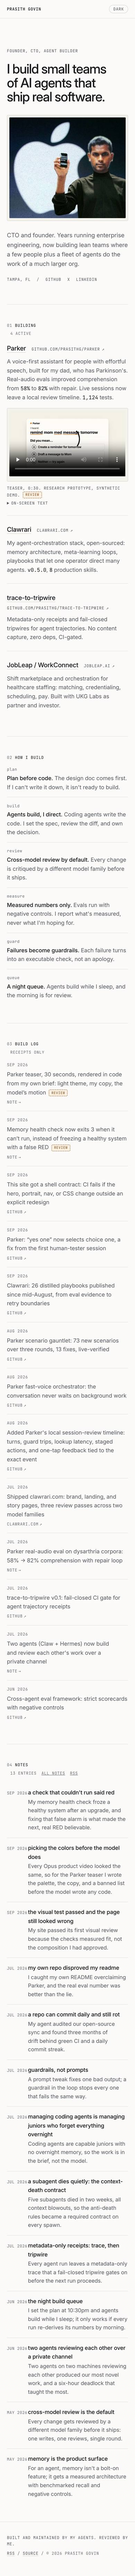
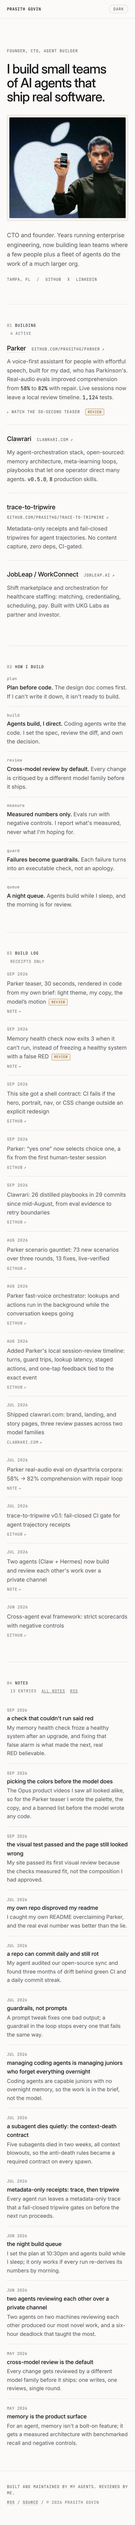
v3 gauntlet pass 2: verbatim receipts in the false-RED note, scoped claims, reduced-motion smooth scroll; review packet under .github/v3-review

Changed region(s): [[0.0308, 0.0, 0.9538, 0.9666]]

diff --git a/notes/picking-the-colors-before-the-model-does.html b/notes/picking-the-colors-before-the-model-does.html
@@ -4,14 +4,14 @@
 <meta charset="utf-8">
 <meta name="viewport" content="width=device-width, initial-scale=1">
 <title>picking the colors before the model does | Prasith Govin</title>
-<meta name="description" content="Every Opus product video looked the same, so for the Parker teaser I wrote the palette, the copy, and a banned list before the model wrote any code.">
+<meta name="description" content="The Opus product videos I saw all looked alike, so for the Parker teaser I wrote the palette, the copy, and a banned list before the model wrote any code.">
 <meta name="author" content="Prasith Govin">
 <meta name="color-scheme" content="light dark">
 <link rel="canonical" href="https://prasithg.com/notes/picking-the-colors-before-the-model-does.html">
 <meta property="og:type" content="article">
 <meta property="og:site_name" content="Prasith Govin">
 <meta property="og:title" content="picking the colors before the model does">
-<meta property="og:description" content="Every Opus product video looked the same, so for the Parker teaser I wrote the palette, the copy, and a banned list before the model wrote any code.">
+<meta property="og:description" content="The Opus product videos I saw all looked alike, so for the Parker teaser I wrote the palette, the copy, and a banned list before the model wrote any code.">
 <meta property="og:url" content="https://prasithg.com/notes/picking-the-colors-before-the-model-does.html">
 <meta property="og:image" content="https://prasithg.com/assets/og/picking-the-colors-before-the-model-does.png">
 <meta property="og:image:width" content="1200">
@@ -19,7 +19,7 @@
 <meta name="twitter:card" content="summary_large_image">
 <meta name="twitter:site" content="@prasithg">
 <meta name="twitter:title" content="picking the colors before the model does">
-<meta name="twitter:description" content="Every Opus product video looked the same, so for the Parker teaser I wrote the palette, the copy, and a banned list before the model wrote any code.">
+<meta name="twitter:description" content="The Opus product videos I saw all looked alike, so for the Parker teaser I wrote the palette, the copy, and a banned list before the model wrote any code.">
 <meta name="twitter:image" content="https://prasithg.com/assets/og/picking-the-colors-before-the-model-does.png">
 <link rel="alternate" type="application/atom+xml" title="Prasith Govin, notes" href="/feed.xml">
 <link rel="icon" href="/favicon.svg" type="image/svg+xml">
@@ -127,6 +127,8 @@ body {
   * { transition: none !important; }
   @view-transition { navigation: none; }
 }
+.prose pre { font-variant-ligatures: none; font-family: var(--mono); font-size: 0.8rem; line-height: 1.6; background: var(--surface); border: 1px solid var(--line); border-radius: 3px; padding: 0.8rem 1rem; overflow-x: auto; }
+.prose pre code { background: none; border: 0; padding: 0; font-size: inherit; overflow-wrap: normal; }
 </style>
 <script>try{var t=localStorage.getItem('theme')||(matchMedia('(prefers-color-scheme: dark)').matches?'dark':'light');document.documentElement.setAttribute('data-theme',t)}catch(e){}</script>
 <script type="application/ld+json">
@@ -134,7 +136,7 @@ body {
   "@context": "https://schema.org",
   "@type": "BlogPosting",
   "headline": "picking the colors before the model does",
-  "description": "Every Opus product video looked the same, so for the Parker teaser I wrote the palette, the copy, and a banned list before the model wrote any code.",
+  "description": "The Opus product videos I saw all looked alike, so for the Parker teaser I wrote the palette, the copy, and a banned list before the model wrote any code.",
   "url": "https://prasithg.com/notes/picking-the-colors-before-the-model-does.html",
   "datePublished": "2026-09-27",
   "inLanguage": "en",
@@ -162,7 +164,7 @@ body {
   <p class="n-meta mono"><time datetime="2026-09-27">Sep 2026</time><span aria-hidden="true"> / </span>2 min read</p>
   <article class="prose">
 <aside class="review-flag mono" data-review="pending">Draft for Prasith's review. Not published until this banner is removed.</aside>
-<p>Nearly every Claude Opus 5.5 product video I saw in September had the same look. Purple glow on near-black. Tiny uppercase labels in the corners. "01 / 03" step counters, fake timestamps, scanlines, a particle globe, words flashing in one at a time.</p><p>That look is what you get when the model picks the colors and the words. One reply under a popular example asked the author to <a href="https://x.com/ggsimm/status/2103495318117708218" target="_blank" rel="noopener">get rid of the "small caps and 01/03 everywhere."</a></p><p>For the Parker teaser I wrote the brief before any code existed and split the job in two. I owned the words and the look. Opus owned the motion.</p><p>The brief was specific enough to check against the render:</p><ul><li>Three colors: paper F6F1E8, ink 14161A, one amber accent E07A2F. One soft red, used once, for a strike-through.</li><li>Inter for everything. Headlines 120 to 180 pixels tall on a 1080p frame.</li><li>Every scene holds at least 2.4 seconds and changes on the music's downbeat. Nothing changes faster than twice a second. One camera move per scene, at most.</li><li>A banned list: small-caps corner labels, step counters, fake coordinates and timestamps, scanlines, particles, neon, dark mode.</li><li>Every on-screen phrase written by me, and a last frame that has to say "Research prototype. Synthetic demo. Not medical advice."</li></ul><p>Opus built it in Remotion, rendered a 16:9 and a 9:16 cut at 60 frames per second, and checked its own contact sheet against the brief before handing it over.</p><p>The light theme started as a way to look different from the wave. It held up for a better reason. Parker is built for people with effortful speech, starting with my dad, and the viewer I care about can't read tiny gray UI on black. Big dark type on warm paper is legible. The trend look would have been wrong for the audience before it was wrong for the brand.</p><p>What I'm keeping: when a model has a strong default, the brief has to name the default and ban it. "Clean and modern" gets you the purple video. A hex list, a timing rule, and a banned list got me something I could check line by line.</p><p>The teaser is 30 seconds and sits under Parker on the front page.</p>
+<p>Nearly every Claude Opus 5.5 product video I saw in September had the same look. Purple glow on near-black. Tiny uppercase labels in the corners. "01 / 03" step counters, fake timestamps, scanlines, a particle globe, words flashing in one at a time.</p><p>That look is what you get when the model picks the colors and the words. One reply under a popular example asked the author to <a href="https://x.com/ggsimm/status/2103495318117708218" target="_blank" rel="noopener">get rid of the "small caps and 01/03 everywhere."</a></p><p>For the Parker teaser I wrote the brief before any code existed and split the job in two. I owned the words and the look. Opus owned the motion.</p><p>The brief was specific enough to check against the render:</p><ul><li>Three colors: paper F6F1E8, ink 14161A, one amber accent E07A2F. One soft red, used once, for a strike-through.</li><li>Inter for everything. Headlines 120 to 180 pixels tall on a 1080p frame.</li><li>Every scene holds at least 2.4 seconds and changes on the music's downbeat. Nothing changes faster than twice a second. One camera move per scene, at most.</li><li>A banned list: small-caps corner labels, step counters, fake coordinates and timestamps, scanlines, particles, neon, dark mode.</li><li>Every on-screen phrase written by me, and a last frame that has to say "Research prototype. Synthetic demo. Not medical advice."</li></ul><p>Opus built it in Remotion, rendered a 16:9 and a 9:16 cut at 60 frames per second, and checked its own contact sheet against the brief before handing it over.</p><p>The light theme started as a way to look different from the wave. It held up for a better reason. Parker is built for people with effortful speech, starting with my dad, and the viewer I care about can't read tiny gray UI on black. Big dark type on warm paper is legible. The trend look would have been wrong for the audience before it was wrong for the brand.</p><p>What I'm keeping: when a model has a strong default, the brief has to name the default and ban it. A brief that says "clean and modern" leaves those choices to the model. A hex list, a timing rule, and a banned list got me something I could check line by line.</p><p>The teaser is 30 seconds and sits under Parker on the front page.</p>
   </article>
   <nav class="pn mono" aria-label="More notes"><a class="pn-prev" href="a-check-that-could-not-run-said-red.html">&larr; a check that couldn&#x27;t run said red</a><a class="pn-next" href="the-visual-test-passed-and-the-page-still-looked-wrong.html">the visual test passed and the page still looked wrong &rarr;</a></nav>
 </main>

diff --git a/notes/a-check-that-could-not-run-said-red.html b/notes/a-check-that-could-not-run-said-red.html
@@ -127,6 +127,8 @@ body {
   * { transition: none !important; }
   @view-transition { navigation: none; }
 }
+.prose pre { font-variant-ligatures: none; font-family: var(--mono); font-size: 0.8rem; line-height: 1.6; background: var(--surface); border: 1px solid var(--line); border-radius: 3px; padding: 0.8rem 1rem; overflow-x: auto; }
+.prose pre code { background: none; border: 0; padding: 0; font-size: inherit; overflow-wrap: normal; }
 </style>
 <script>try{var t=localStorage.getItem('theme')||(matchMedia('(prefers-color-scheme: dark)').matches?'dark':'light');document.documentElement.setAttribute('data-theme',t)}catch(e){}</script>
 <script type="application/ld+json">
@@ -162,7 +164,16 @@ body {
   <p class="n-meta mono"><time datetime="2026-09-27">Sep 2026</time><span aria-hidden="true"> / </span>2 min read</p>
   <article class="prose">
 <aside class="review-flag mono" data-review="pending">Draft for Prasith's review. Not published until this banner is removed.</aside>
-<p>At 23:12 on a Saturday my memory health check reported RED. Zero of 26 probes had run. The safety monitor saw the RED and froze memory writes.</p><p>Memory was fine. Seven minutes earlier, a live recall test had passed.</p><p>I had just upgraded my agent runtime, OpenClaw, from 2026.9.2 to 2026.9.6, and then run the check from inside an agent's shell. The new version blocks the agent command from that context. Every probe failed to start, and the script counted each one as a failure.</p><p>That is the bug worth writing down. The check had two outcomes, pass and fail, and it needed three. "I couldn't run" and "the thing I measure is broken" produced the same RED, and the freeze logic downstream treated them the same way. A monitor with no way to report its own failure will eventually punish a healthy system for it.</p><p>The fixes went in the same night. The health script now checks where it is running before it starts, and exits with code 3 when the context is wrong, so a skipped run reads as skipped. The nightly memory consolidation job had been running as an agent turn. It now runs as a plain command, so the runtime change can't reach it. The update runbook got a new line: after a runtime upgrade, run health checks from a normal shell.</p><p>The freeze clears after two clean runs in a row. I kicked the first one at 23:40 and expected the 05:20 scheduled cycle to be the second.</p><p>It wasn't clean. With the false alarm out of the way, the next run came back RED for a real reason. Seven of 12 fleet cases failed, all with the same error from the new runtime when a parent session spawned a child. Recall still passed 26 of 26. The upgrade had broken something, just not the thing the first RED claimed.</p><p>An agent worked the compatibility fix overnight. By midday Sunday the fleet matrix was 12 of 12 and the freeze had lifted through the normal two-pass rule.</p><p>I took two things from it, and I trust the second one more.</p><p>First, a health check needs a separate answer for "I didn't measure." Mine is exit code 3. Which number you pick is arbitrary. Having one is the fix.</p><p>Second, a false alarm hides the next real one. If the check still couldn't say "couldn't run," every RED after the upgrade would have looked like the same shell problem, and I would have waved the real regression through. Fixing the instrument first is what made the second RED believable.</p><p>This is one incident on one machine, so I'm not calling it a law about monitoring. It is a rule in my runbook now.</p>
+<p>At 23:12 on a Saturday my memory health check reported RED. Zero of 26 probes had run. The safety monitor saw the RED and froze memory writes.</p><p>Memory was fine. Seven minutes earlier, a live recall test had passed.</p><p>I had just upgraded my agent runtime, OpenClaw, from 2026.9.2 to 2026.9.6, and then run the check from inside an agent's shell. The new version blocks the agent command from that context. Every probe failed to start, and the script counted each one as a failure.</p><p>That is the bug worth writing down. The check had two outcomes, pass and fail, and it needed three. "I couldn't run" and "the thing I measure is broken" produced the same RED, and the freeze logic downstream treated them the same way. A monitor with no way to report its own failure will eventually punish a healthy system for it.</p><p>The fixes went in the same night. The health script now checks where it is running before it starts, and exits with code 3 when the context is wrong, so a skipped run reads as skipped. This is the guard at the top of the script, trimmed of its override flag:</p>
+<pre><code>if (process.env.OPENCLAW_SHELL === "exec") {
+  console.error("health.mjs: refusing to run from an agent shell");
+  process.exit(3);
+}</code></pre>
+<p> The nightly memory consolidation job had been running as an agent turn. It now runs as a plain command, so the runtime change can't reach it. The update runbook got a new line: after a runtime upgrade, run health checks from a normal shell.</p><p>The freeze clears after two clean runs in a row. I kicked the first one at 23:40 and expected the 05:20 scheduled cycle to be the second.</p><p>It wasn't clean. With the false alarm out of the way, the next run came back RED for a real reason. Seven of 12 fleet cases failed, all with the same error from the new runtime when a parent session spawned a child. Recall still passed 26 of 26. The upgrade had broken something, just not the thing the first RED claimed.</p><p>An agent worked the compatibility fix overnight. By midday Sunday the freeze had lifted through the normal two-pass rule. The daily health report now reads:</p>
+<pre><code>Freeze: inactive
+Recall suite: 26/26 overall · 24/24 positives · 2/2 negative controls
+Fleet matrix: 12/12</code></pre>
+<p>The health tooling lives in a private repo, so those two snippets, copied verbatim, are the receipts I can publish.</p><p>I took two things from it, and I trust the second one more.</p><p>First, a health check needs a separate answer for "I didn't measure." Mine is exit code 3. Which number you pick is arbitrary. Having one is the fix.</p><p>Second, a false alarm hides the next real one. If the check still couldn't say "couldn't run," every RED after the upgrade would have looked like the same shell problem, and I would have waved the real regression through. Fixing the instrument first is what made the second RED believable.</p><p>This is one incident on one machine, so I'm not calling it a law about monitoring. It is a rule in my runbook now.</p>
   </article>
   <nav class="pn mono" aria-label="More notes"><span></span><a class="pn-next" href="picking-the-colors-before-the-model-does.html">picking the colors before the model does &rarr;</a></nav>
 </main>

diff --git a/notes/index.html b/notes/index.html
@@ -119,6 +119,8 @@ body {
   * { transition: none !important; }
   @view-transition { navigation: none; }
 }
+.prose pre { font-variant-ligatures: none; font-family: var(--mono); font-size: 0.8rem; line-height: 1.6; background: var(--surface); border: 1px solid var(--line); border-radius: 3px; padding: 0.8rem 1rem; overflow-x: auto; }
+.prose pre code { background: none; border: 0; padding: 0; font-size: inherit; overflow-wrap: normal; }
 </style>
 <script>try{var t=localStorage.getItem('theme')||(matchMedia('(prefers-color-scheme: dark)').matches?'dark':'light');document.documentElement.setAttribute('data-theme',t)}catch(e){}</script>
 </head>
@@ -137,7 +139,7 @@ body {
   <p class="n-meta mono">13 entries<span aria-hidden="true"> / </span><a href="/feed.xml">RSS</a></p>
   <ol class="nlist">
     <li><a href="a-check-that-could-not-run-said-red.html"><span class="when mono">Sep 2026</span><span class="t">a check that couldn&#x27;t run said red</span><span class="s">My memory health check froze a healthy system after an upgrade, and fixing that false alarm is what made the next, real RED believable.</span></a></li>
-    <li><a href="picking-the-colors-before-the-model-does.html"><span class="when mono">Sep 2026</span><span class="t">picking the colors before the model does</span><span class="s">Every Opus product video looked the same, so for the Parker teaser I wrote the palette, the copy, and a banned list before the model wrote any code.</span></a></li>
+    <li><a href="picking-the-colors-before-the-model-does.html"><span class="when mono">Sep 2026</span><span class="t">picking the colors before the model does</span><span class="s">The Opus product videos I saw all looked alike, so for the Parker teaser I wrote the palette, the copy, and a banned list before the model wrote any code.</span></a></li>
     <li><a href="the-visual-test-passed-and-the-page-still-looked-wrong.html"><span class="when mono">Sep 2026</span><span class="t">the visual test passed and the page still looked wrong</span><span class="s">My site passed its first visual review because the checks measured fit, not the composition I had approved.</span></a></li>
     <li><a href="my-own-repo-disproved-my-readme.html"><span class="when mono">Jul 2026</span><span class="t">my own repo disproved my readme</span><span class="s">I caught my own README overclaiming Parker, and the real eval number was better than the lie.</span></a></li>
     <li><a href="a-repo-can-commit-daily-and-still-rot.html"><span class="when mono">Jul 2026</span><span class="t">a repo can commit daily and still rot</span><span class="s">My agent audited our open-source sync and found three months of drift behind green CI and a daily commit streak.</span></a></li>

diff --git a/index.html b/index.html
@@ -336,7 +336,7 @@
     @view-transition { navigation: none; }
   }
 
-  html { scroll-behavior: smooth; }
+  @media (prefers-reduced-motion: no-preference) { html { scroll-behavior: smooth; } }
   section[id] { scroll-margin-top: 4.5rem; }
   .topnav { display: flex; gap: 1.1rem; margin-left: auto; margin-right: 1.2rem; font-size: 0.72rem; letter-spacing: 0.06em; text-transform: uppercase; }
   .topnav a { color: var(--muted); text-decoration: none; border-bottom: 1px solid transparent; padding-bottom: 1px; }
@@ -518,7 +518,7 @@
             <span class="when mono">Sep 2026</span>
             <span class="n-title">picking the colors before the model does</span>
             <span class="arw mono" aria-hidden="true">&#8599;</span>
-            <span class="n-sum">Every Opus product video looked the same, so for the Parker teaser I wrote the palette, the copy, and a banned list before the model wrote any code.</span>
+            <span class="n-sum">The Opus product videos I saw all looked alike, so for the Parker teaser I wrote the palette, the copy, and a banned list before the model wrote any code.</span>
           </a></li>
           <li data-slug="the-visual-test-passed-and-the-page-still-looked-wrong"><a href="notes/the-visual-test-passed-and-the-page-still-looked-wrong.html">
             <span class="when mono">Sep 2026</span>

diff --git a/notes/a-repo-can-commit-daily-and-still-rot.html b/notes/a-repo-can-commit-daily-and-still-rot.html
@@ -127,6 +127,8 @@ body {
   * { transition: none !important; }
   @view-transition { navigation: none; }
 }
+.prose pre { font-variant-ligatures: none; font-family: var(--mono); font-size: 0.8rem; line-height: 1.6; background: var(--surface); border: 1px solid var(--line); border-radius: 3px; padding: 0.8rem 1rem; overflow-x: auto; }
+.prose pre code { background: none; border: 0; padding: 0; font-size: inherit; overflow-wrap: normal; }
 </style>
 <script>try{var t=localStorage.getItem('theme')||(matchMedia('(prefers-color-scheme: dark)').matches?'dark':'light');document.documentElement.setAttribute('data-theme',t)}catch(e){}</script>
 <script type="application/ld+json">

diff --git a/notes/cross-model-review-is-the-default.html b/notes/cross-model-review-is-the-default.html
@@ -127,6 +127,8 @@ body {
   * { transition: none !important; }
   @view-transition { navigation: none; }
 }
+.prose pre { font-variant-ligatures: none; font-family: var(--mono); font-size: 0.8rem; line-height: 1.6; background: var(--surface); border: 1px solid var(--line); border-radius: 3px; padding: 0.8rem 1rem; overflow-x: auto; }
+.prose pre code { background: none; border: 0; padding: 0; font-size: inherit; overflow-wrap: normal; }
 </style>
 <script>try{var t=localStorage.getItem('theme')||(matchMedia('(prefers-color-scheme: dark)').matches?'dark':'light');document.documentElement.setAttribute('data-theme',t)}catch(e){}</script>
 <script type="application/ld+json">

diff --git a/notes/guardrails-not-prompts.html b/notes/guardrails-not-prompts.html
@@ -127,6 +127,8 @@ body {
   * { transition: none !important; }
   @view-transition { navigation: none; }
 }
+.prose pre { font-variant-ligatures: none; font-family: var(--mono); font-size: 0.8rem; line-height: 1.6; background: var(--surface); border: 1px solid var(--line); border-radius: 3px; padding: 0.8rem 1rem; overflow-x: auto; }
+.prose pre code { background: none; border: 0; padding: 0; font-size: inherit; overflow-wrap: normal; }
 </style>
 <script>try{var t=localStorage.getItem('theme')||(matchMedia('(prefers-color-scheme: dark)').matches?'dark':'light');document.documentElement.setAttribute('data-theme',t)}catch(e){}</script>
 <script type="application/ld+json">

diff --git a/notes/managing-coding-agents-like-juniors.html b/notes/managing-coding-agents-like-juniors.html
@@ -127,6 +127,8 @@ body {
   * { transition: none !important; }
   @view-transition { navigation: none; }
 }
+.prose pre { font-variant-ligatures: none; font-family: var(--mono); font-size: 0.8rem; line-height: 1.6; background: var(--surface); border: 1px solid var(--line); border-radius: 3px; padding: 0.8rem 1rem; overflow-x: auto; }
+.prose pre code { background: none; border: 0; padding: 0; font-size: inherit; overflow-wrap: normal; }
 </style>
 <script>try{var t=localStorage.getItem('theme')||(matchMedia('(prefers-color-scheme: dark)').matches?'dark':'light');document.documentElement.setAttribute('data-theme',t)}catch(e){}</script>
 <script type="application/ld+json">

diff --git a/notes/memory-is-the-product-surface.html b/notes/memory-is-the-product-surface.html
@@ -127,6 +127,8 @@ body {
   * { transition: none !important; }
   @view-transition { navigation: none; }
 }
+.prose pre { font-variant-ligatures: none; font-family: var(--mono); font-size: 0.8rem; line-height: 1.6; background: var(--surface); border: 1px solid var(--line); border-radius: 3px; padding: 0.8rem 1rem; overflow-x: auto; }
+.prose pre code { background: none; border: 0; padding: 0; font-size: inherit; overflow-wrap: normal; }
 </style>
 <script>try{var t=localStorage.getItem('theme')||(matchMedia('(prefers-color-scheme: dark)').matches?'dark':'light');document.documentElement.setAttribute('data-theme',t)}catch(e){}</script>
 <script type="application/ld+json">

diff --git a/notes/metadata-only-receipts.html b/notes/metadata-only-receipts.html
@@ -127,6 +127,8 @@ body {
   * { transition: none !important; }
   @view-transition { navigation: none; }
 }
+.prose pre { font-variant-ligatures: none; font-family: var(--mono); font-size: 0.8rem; line-height: 1.6; background: var(--surface); border: 1px solid var(--line); border-radius: 3px; padding: 0.8rem 1rem; overflow-x: auto; }
+.prose pre code { background: none; border: 0; padding: 0; font-size: inherit; overflow-wrap: normal; }
 </style>
 <script>try{var t=localStorage.getItem('theme')||(matchMedia('(prefers-color-scheme: dark)').matches?'dark':'light');document.documentElement.setAttribute('data-theme',t)}catch(e){}</script>
 <script type="application/ld+json">

diff --git a/notes/my-own-repo-disproved-my-readme.html b/notes/my-own-repo-disproved-my-readme.html
@@ -127,6 +127,8 @@ body {
   * { transition: none !important; }
   @view-transition { navigation: none; }
 }
+.prose pre { font-variant-ligatures: none; font-family: var(--mono); font-size: 0.8rem; line-height: 1.6; background: var(--surface); border: 1px solid var(--line); border-radius: 3px; padding: 0.8rem 1rem; overflow-x: auto; }
+.prose pre code { background: none; border: 0; padding: 0; font-size: inherit; overflow-wrap: normal; }
 </style>
 <script>try{var t=localStorage.getItem('theme')||(matchMedia('(prefers-color-scheme: dark)').matches?'dark':'light');document.documentElement.setAttribute('data-theme',t)}catch(e){}</script>
 <script type="application/ld+json">

diff --git a/notes/the-context-death-contract.html b/notes/the-context-death-contract.html
@@ -127,6 +127,8 @@ body {
   * { transition: none !important; }
   @view-transition { navigation: none; }
 }
+.prose pre { font-variant-ligatures: none; font-family: var(--mono); font-size: 0.8rem; line-height: 1.6; background: var(--surface); border: 1px solid var(--line); border-radius: 3px; padding: 0.8rem 1rem; overflow-x: auto; }
+.prose pre code { background: none; border: 0; padding: 0; font-size: inherit; overflow-wrap: normal; }
 </style>
 <script>try{var t=localStorage.getItem('theme')||(matchMedia('(prefers-color-scheme: dark)').matches?'dark':'light');document.documentElement.setAttribute('data-theme',t)}catch(e){}</script>
 <script type="application/ld+json">
